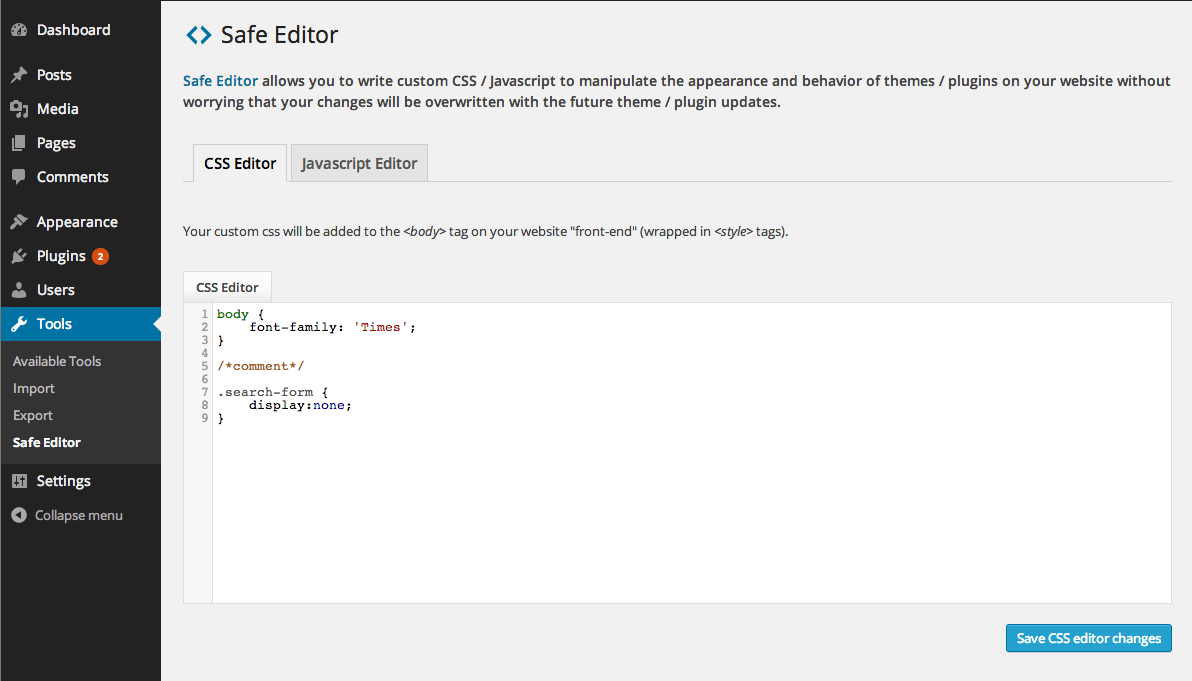
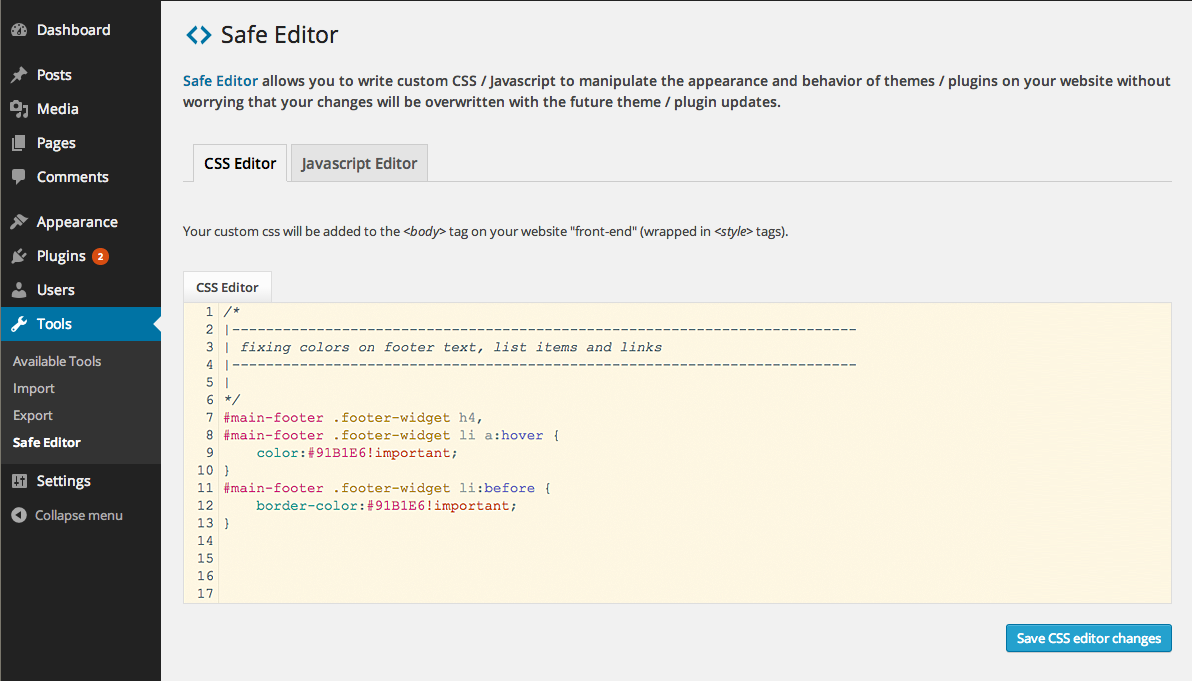
v 1.1 - Solarized theme for the editors
git-svn-id: https://plugins.svn.wordpress.org/safe-editor/trunk@1067775 b8457f37-d9ea-0310-8a92-e5e31aec5664

diff --git a/css/safe_editor.css b/css/safe_editor.css
@@ -27,6 +27,10 @@
     display: block; }
   .safe_editor_wrapper .CodeMirror {
     border: 1px solid #ddd;
+    font-size:16px;
+    line-height:20px;
+    height:800px;
+    font-family: "Courier New";
     margin-bottom: 20px; }
   .safe_editor_wrapper .button {
     float: right; }

diff --git a/index.php b/index.php
@@ -1,9 +1,9 @@
 <?php
 /*
 Plugin Name: Safe Editor
-Plugin URI: 	
-Description: Safe Editor allows you to write custom CSS / Javascript to manipulate the appearance and behavior of themes / plugins on your website without worrying that your changes will be overwritten with the future theme / plugin updates. 
-Version: 1.0
+Plugin URI:
+Description: Safe Editor allows you to write custom CSS / Javascript to manipulate the appearance and behavior of themes / plugins on your website without worrying that your changes will be overwritten with the future theme / plugin updates.
+Version: 1.1
 Author: Konrad Węgrzyniak
 Author URI: http://forde.pl/
 License: GPL2
@@ -15,6 +15,12 @@ class se_options_page {
 		add_action('init', array( $this, 'save_edit_init') );
 
 		if(!wp_script_is('jquery')) wp_enqueue_script('jquery',false,array(),false, true);
+
+    	wp_enqueue_style('codemirror-theme-ambiance', plugins_url('/theme/ambiance.css', __FILE__));
+    	wp_enqueue_style('codemirror-theme-monokai', plugins_url('/theme/monokai.css', __FILE__));
+    	wp_enqueue_style('codemirror-theme-solarized', plugins_url('/theme/solarized.css', __FILE__));
+    	wp_enqueue_style('codemirror-theme-tomorrow-night-eighties', plugins_url('/theme/tomorrow-night-eighties.css', __FILE__));
+
     	wp_enqueue_style('codemirror-css', plugins_url('/codemirror/codemirror.css', __FILE__));
     	wp_enqueue_script('codemirror', plugins_url( '/codemirror/codemirror.js', __FILE__ ),array(),false, true);
     	wp_enqueue_script('codemirror-mode-css', plugins_url( '/codemirror/mode/css/css.js', __FILE__ ),array(),false, true);
@@ -43,11 +49,11 @@ class se_options_page {
 
 			<?php ( isset($_GET['tab']) )? $this->se_tabs($_GET['tab']) : $this->se_tabs('css'); ?>
 			<?php $tab = ( isset($_GET['tab']) )? $_GET['tab'] : false; ?>
-			
+
 			<div class="safe_editor_wrapper <?php if($tab == 'css' || !isset($_GET['tab'])) echo 'tab_vis' ?>">
-				<?php 
-					$css = get_option('safe_edit_css'); 
-					$css = ($css)? stripcslashes($css) : ''; 
+				<?php
+					$css = get_option('safe_edit_css');
+					$css = ($css)? stripcslashes($css) : '';
 				?>
 				<p class="se_tab_desc">Your custom css will be added to the <i>&lt;body&gt;</i> tag on your website "front-end" (wrapped in <i>&lt;style&gt;</i> tags).</p>
 				<div id="safe_editor_tab">CSS Editor</div>
@@ -56,9 +62,9 @@ class se_options_page {
 			</div>
 
 			<div class="safe_editor_wrapper <?php if($tab == 'js') echo 'tab_vis' ?>">
-				<?php 
-					$js = get_option('safe_edit_js'); 
-					$js = ($js)? stripcslashes($js) : ''; 
+				<?php
+					$js = get_option('safe_edit_js');
+					$js = ($js)? stripcslashes($js) : '';
 				?>
 				<p class="se_tab_desc">Your custom Javascript will be added to the footer of your website "front-end" (wrapped in <i>&lt;script&gt;</i> tags).</p>
 				<div id="safe_editor_tab">Javascript Editor</div>
@@ -75,21 +81,23 @@ class se_options_page {
 					<img alt="" border="0" src="https://www.paypalobjects.com/pl_PL/i/scr/pixel.gif" width="1" height="1">
 				</form>
 			</div>
-			
 
 
-			
+
+
 			<script type="text/javascript">
-				jQuery(document).ready(function( $ ) {					
+				jQuery(document).ready(function( $ ) {
 					var css_editor = CodeMirror.fromTextArea(document.getElementById("safe_css_editor"), {
 						mode:  "css",
 						indentUnit: 4,
-						lineNumbers: true
+						lineNumbers: true,
+						theme: "solarized light"
 					});
 					var js_editor = CodeMirror.fromTextArea(document.getElementById("safe_js_editor"), {
 						mode:  "javascript",
 			        	indentUnit: 4,
-						lineNumbers: true
+						lineNumbers: true,
+						theme: "solarized light"
 			      	});
 
 
@@ -112,7 +120,7 @@ class se_options_page {
 						} else {
 							textarea = $('.safe_editor_js_textarea');
 							value = js_editor.getValue();
-							saving_js = true;	
+							saving_js = true;
 						}
 
 						t.parent().find('.saving').remove();
@@ -122,14 +130,14 @@ class se_options_page {
 							type: 'POST',
 							url: scriptsajax.ajaxurl,
 							data: {
-								action: 'se_save', 
+								action: 'se_save',
 								type: type,
 								data: value
 							},
 							success: function(data, textStatus, XMLHttpRequest) {
 								t.parent().after(data);
 								t.parent().find('.saving').addClass('saved').fadeOut(4000, function() { $(this).remove() });
-								if(type == 'css') saving_css = false; 
+								if(type == 'css') saving_css = false;
 								if(type == 'js') saving_js = false;
 							},
 							error: function(MLHttpRequest, textStatus, errorThrown) {
@@ -166,12 +174,12 @@ new se_options_page;
 
 
 function se_save() {
-	//echo "<pre>"; print_r($_POST); echo "</pre>"; 
+	//echo "<pre>"; print_r($_POST); echo "</pre>";
 	switch($_POST['type']) {
-		case 'css' : 
+		case 'css' :
 			update_option( 'safe_edit_css', $_POST['data']);
 			break;
-		case 'js' : 
+		case 'js' :
 			update_option( 'safe_edit_js', $_POST['data']);
 			break;
 	}
